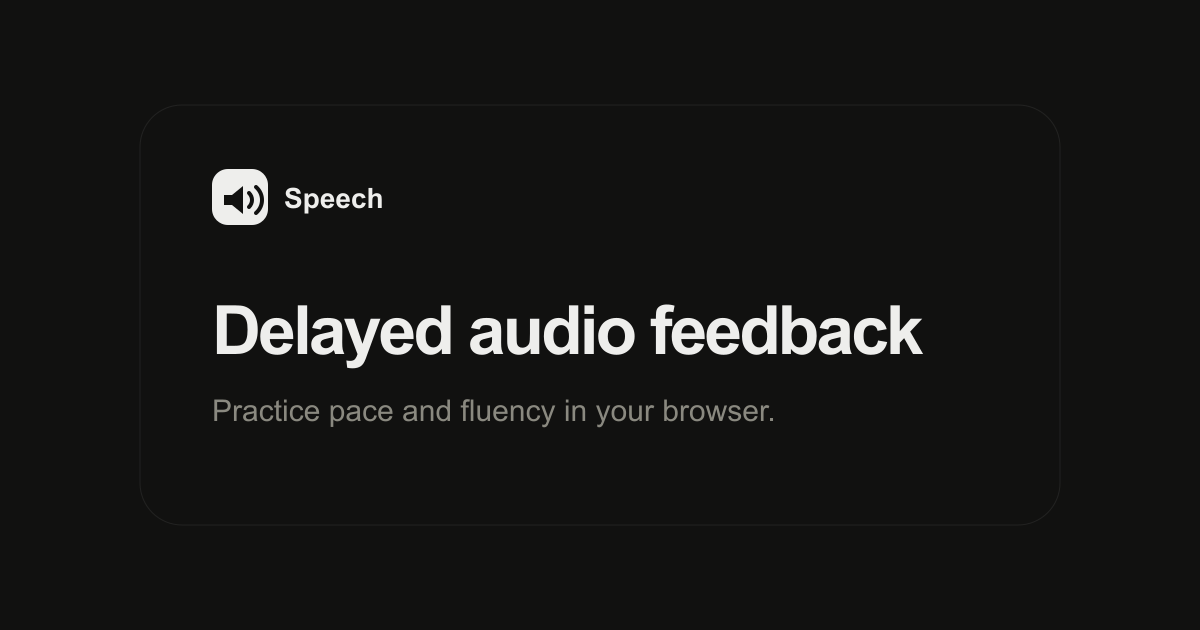
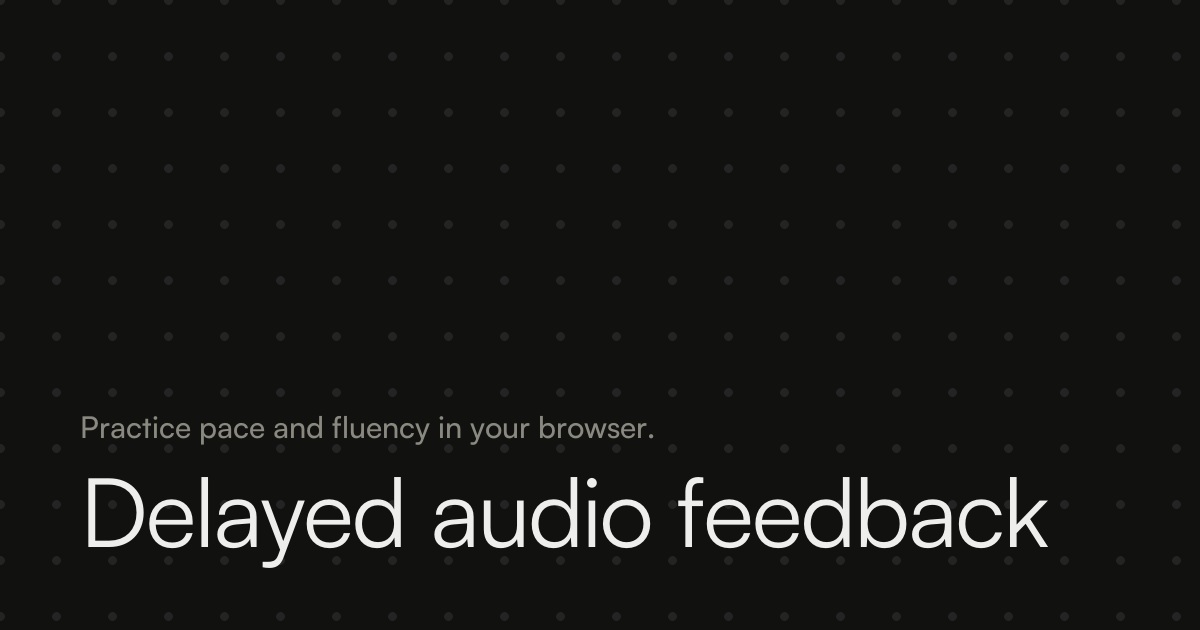
feat: update Open Graph image

diff --git a/src/app/index.tsx b/src/app/index.tsx
@@ -84,12 +84,15 @@ export const Route = createFileRoute("/")({
       { content: socialImage, property: "og:image" },
       { content: "1200", property: "og:image:width" },
       { content: "630", property: "og:image:height" },
-      { content: "Speech delayed audio feedback tool", property: "og:image:alt" },
+      { content: "Delayed audio feedback for pace and fluency practice", property: "og:image:alt" },
       { content: "summary_large_image", name: "twitter:card" },
       { content: pageTitle, name: "twitter:title" },
       { content: SITE_DESCRIPTION, name: "twitter:description" },
       { content: socialImage, name: "twitter:image" },
-      { content: "Speech delayed audio feedback tool", name: "twitter:image:alt" },
+      {
+        content: "Delayed audio feedback for pace and fluency practice",
+        name: "twitter:image:alt",
+      },
     ],
     scripts: [
       {
